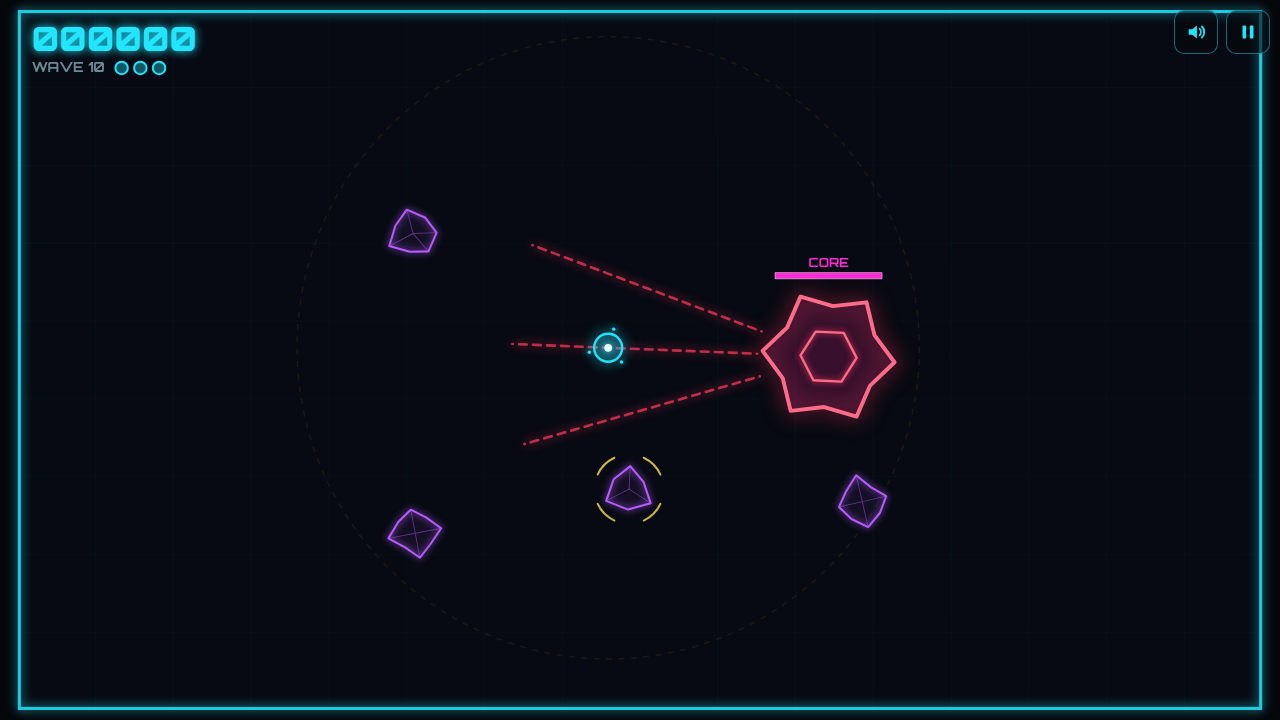
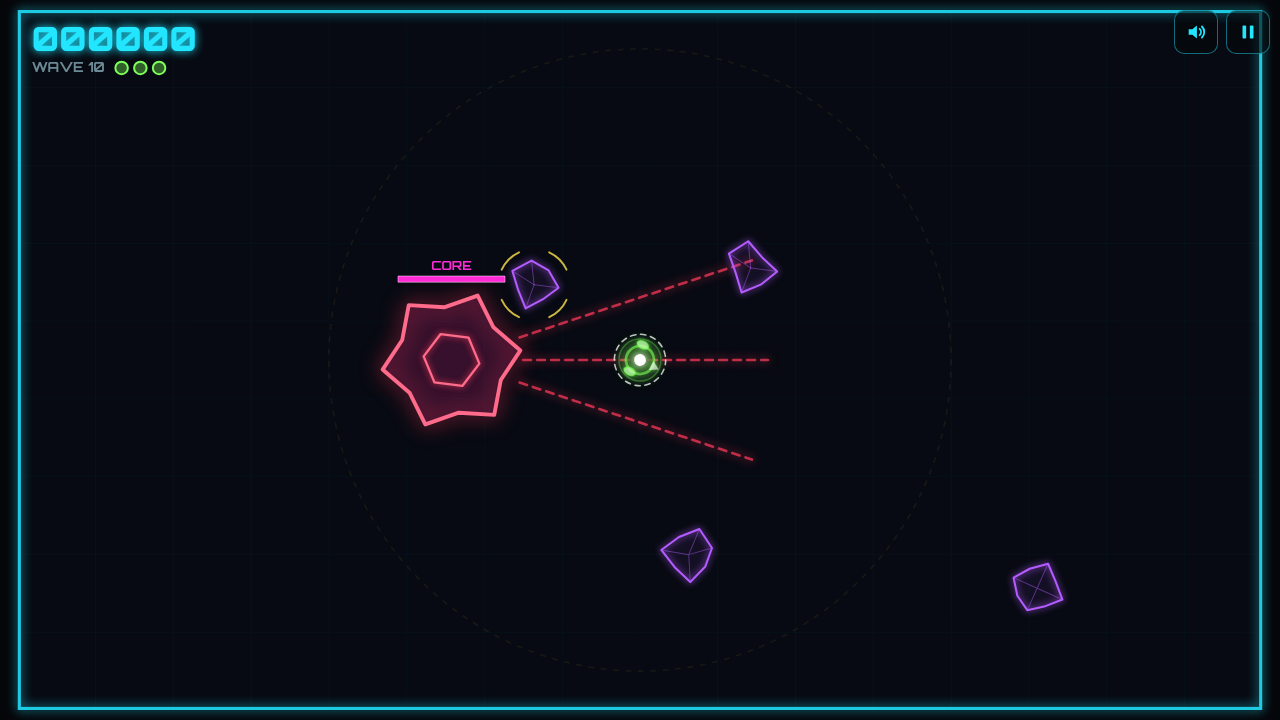
Make the player drone unmistakable: unique green/white look, nose + thrusters, glow ring, motion trail, YOU spotlight at wave start/respawn

diff --git a/src/render/renderer.ts b/src/render/renderer.ts
@@ -4,7 +4,7 @@ import { PERK_INFO } from '../perkInfo';
 import { PERK_IDS } from '../sim/types';
 import type { Enemy, GameState, Shard } from '../sim/types';
 import type { TutMark } from '../tutorial';
-import { Effects, TIER_COLORS } from './fx';
+import { DRONE_COLOR, DRONE_RGB, Effects, SPOTLIGHT_TIME, TIER_COLORS } from './fx';
 
 const lerp = (a: number, b: number, t: number) => a + (b - a) * t;
 
@@ -20,6 +20,9 @@ export class Renderer {
   view: View = { scale: 1, offX: 0, offY: 0, dpr: 1 };
   private cssW = 0;
   private cssH = 0;
+  /** smoothed facing of the drone (render only, follows its velocity) */
+  private droneAng = -Math.PI / 2;
+  private lastTime = 0;
 
   constructor(private canvas: HTMLCanvasElement) {
     const ctx = canvas.getContext('2d', { alpha: false });
@@ -216,35 +219,9 @@ export class Renderer {
       }
     }
 
-    // drone
-    const blink = d.invuln > 0 && s.mode === 'play' && Math.floor(time * 12) % 2 === 0;
-    if (s.phase === 'playing' || s.mode === 'attract') {
-      ctx.save();
-      ctx.globalAlpha = blink ? 0.35 : 1;
-      ctx.shadowColor = '#22e5ff';
-      ctx.shadowBlur = glow(16);
-      ctx.strokeStyle = '#22e5ff';
-      ctx.lineWidth = 3;
-      ctx.beginPath();
-      ctx.arc(dx, dy, d.r, 0, Math.PI * 2);
-      ctx.stroke();
-      ctx.fillStyle = 'rgba(34,229,255,0.15)';
-      ctx.fill();
-      ctx.shadowBlur = glow(8);
-      ctx.fillStyle = '#e8fdff';
-      ctx.beginPath();
-      ctx.arc(dx, dy, 5, 0, Math.PI * 2);
-      ctx.fill();
-      // orbiting markers
-      for (let i = 0; i < 3; i++) {
-        const a = time * 3 + (i * Math.PI * 2) / 3;
-        ctx.fillStyle = '#22e5ff';
-        ctx.beginPath();
-        ctx.arc(dx + Math.cos(a) * (d.r + 7), dy + Math.sin(a) * (d.r + 7), 2.2, 0, Math.PI * 2);
-        ctx.fill();
-      }
-      ctx.restore();
-    }
+    // drone (drawn above crystals and enemies so it is never hidden)
+    if (s.phase === 'playing' || s.mode === 'attract') this.drawDrone(s, fx, dx, dy, time, glow);
+    else fx.droneTrail = [];
 
     if (marks) this.drawMarks(s, alpha, marks, time, dx, dy);
 
@@ -297,6 +274,171 @@ export class Renderer {
     // ---------- HUD in screen space (minimum font sizes for small iframes/phones)
     ctx.setTransform(dpr, 0, 0, dpr, 0, 0);
     if (showHud && !marks) this.drawHud(s, fx);
+  }
+
+  /**
+   * The player's drone: green/white (a color nothing else uses), round body with a nose and two thrusters,
+   * a pulsing glow ring and a short motion trail, plus a "YOU" spotlight at wave start / after a hit.
+   */
+  private drawDrone(s: GameState, fx: Effects, dx: number, dy: number, time: number, glow: (px: number) => number): void {
+    const { ctx } = this;
+    const d = s.drone;
+    const r = d.r;
+    const rdt = Math.min(0.1, Math.max(0, time - this.lastTime));
+    this.lastTime = time;
+
+    // facing follows the velocity (smoothed); kept while standing still
+    const sp = Math.hypot(d.vx, d.vy);
+    if (sp > 40) {
+      const target = Math.atan2(d.vy, d.vx);
+      const diff = Math.atan2(Math.sin(target - this.droneAng), Math.cos(target - this.droneAng));
+      this.droneAng += diff * Math.min(1, rdt * 14);
+    }
+    const ang = this.droneAng;
+
+    // motion trail (render positions of the last ~0.2 s)
+    const tr = fx.droneTrail;
+    const last = tr[tr.length - 1];
+    if (last && Math.hypot(last.x - dx, last.y - dy) > 140) tr.length = 0; // teleport (new wave / restart)
+    if (!last || last.x !== dx || last.y !== dy) tr.push({ x: dx, y: dy, t: time });
+    while (tr.length > 0 && (time - tr[0].t > 0.22 || tr.length > 28)) tr.shift();
+    if (tr.length > 1) {
+      ctx.save();
+      ctx.lineCap = 'round';
+      for (let i = 1; i < tr.length; i++) {
+        const k = i / tr.length;
+        ctx.strokeStyle = `rgba(${DRONE_RGB},${k * 0.45})`;
+        ctx.lineWidth = r * 1.1 * k;
+        ctx.beginPath();
+        ctx.moveTo(tr[i - 1].x, tr[i - 1].y);
+        ctx.lineTo(tr[i].x, tr[i].y);
+        ctx.stroke();
+      }
+      ctx.restore();
+    }
+
+    const invuln = d.invuln > 0 && s.mode === 'play';
+    const blink = invuln && Math.floor(time * 12) % 2 === 0;
+    const pulse = 0.5 + 0.5 * Math.sin(time * 5);
+    ctx.save();
+    ctx.translate(dx, dy);
+
+    // soft pulsing glow ring
+    ctx.strokeStyle = `rgba(${DRONE_RGB},${0.22 + pulse * 0.28})`;
+    ctx.lineWidth = 2;
+    ctx.shadowColor = DRONE_COLOR;
+    ctx.shadowBlur = glow(12);
+    ctx.beginPath();
+    ctx.arc(0, 0, r + 8 + pulse * 3, 0, Math.PI * 2);
+    ctx.stroke();
+
+    // shield while invulnerable: a rotating dashed ring that never blinks
+    if (invuln) {
+      ctx.shadowBlur = 0;
+      ctx.strokeStyle = 'rgba(255,255,255,0.75)';
+      ctx.lineWidth = 2;
+      ctx.setLineDash([7, 6]);
+      ctx.lineDashOffset = -time * 40;
+      ctx.beginPath();
+      ctx.arc(0, 0, r + 15, 0, Math.PI * 2);
+      ctx.stroke();
+      ctx.setLineDash([]);
+    }
+
+    ctx.rotate(ang);
+    // thruster flames from the two side pods (longer when moving)
+    const thrust = Math.min(1, sp / 400);
+    const flick = 0.75 + Math.random() * 0.25;
+    const podX = -r * 0.3;
+    const podY = r + 1;
+    for (const side of [-1, 1]) {
+      const fl = (5 + thrust * 16) * flick;
+      ctx.fillStyle = `rgba(${DRONE_RGB},${0.35 + thrust * 0.5})`;
+      ctx.beginPath();
+      ctx.moveTo(podX - 5, side * podY - 3.5);
+      ctx.lineTo(podX - 5 - fl, side * podY);
+      ctx.lineTo(podX - 5, side * podY + 3.5);
+      ctx.closePath();
+      ctx.fill();
+    }
+
+    // body: dark green disc, thick green rim (blinks softly while invulnerable, never fades out)
+    ctx.globalAlpha = blink ? 0.6 : 1;
+    ctx.shadowColor = DRONE_COLOR;
+    ctx.shadowBlur = glow(16);
+    ctx.fillStyle = 'rgba(30,70,22,0.92)';
+    ctx.strokeStyle = DRONE_COLOR;
+    ctx.lineWidth = 3.5;
+    ctx.beginPath();
+    ctx.arc(0, 0, r, 0, Math.PI * 2);
+    ctx.fill();
+    ctx.stroke();
+    // thruster pods sticking out on both sides (a silhouette no crystal has)
+    ctx.shadowBlur = glow(6);
+    ctx.fillStyle = '#e9ffe0';
+    ctx.lineWidth = 2;
+    for (const side of [-1, 1]) {
+      ctx.beginPath();
+      ctx.ellipse(podX, side * podY, 7.5, 4.5, 0, 0, Math.PI * 2);
+      ctx.fill();
+      ctx.stroke();
+    }
+    // nose: direction indicator
+    ctx.fillStyle = '#ffffff';
+    ctx.beginPath();
+    ctx.moveTo(r + 9, 0);
+    ctx.lineTo(r - 2, -6.5);
+    ctx.lineTo(r - 2, 6.5);
+    ctx.closePath();
+    ctx.fill();
+    // bright white core
+    ctx.globalAlpha = 1;
+    ctx.shadowColor = '#ffffff';
+    ctx.shadowBlur = glow(10);
+    ctx.fillStyle = '#ffffff';
+    ctx.beginPath();
+    ctx.arc(0, 0, r * 0.42, 0, Math.PI * 2);
+    ctx.fill();
+    ctx.restore();
+
+    // "YOU" spotlight: expanding rings + label (wave start, after losing a life)
+    if (fx.spotlight > 0 && s.mode === 'play') {
+      const k = fx.spotlight / SPOTLIGHT_TIME; // 1 -> 0
+      const fade = Math.min(1, fx.spotlight * 3);
+      ctx.save();
+      ctx.strokeStyle = DRONE_COLOR;
+      ctx.shadowColor = DRONE_COLOR;
+      ctx.shadowBlur = glow(12);
+      for (let i = 0; i < 2; i++) {
+        const g = ((1 - k) * 2.2 + i * 0.5) % 1;
+        ctx.globalAlpha = (1 - g) * 0.8 * fade;
+        ctx.lineWidth = 3;
+        ctx.beginPath();
+        ctx.arc(dx, dy, r + 10 + g * 70, 0, Math.PI * 2);
+        ctx.stroke();
+      }
+      // fixed bracket ring, then the label
+      ctx.globalAlpha = fade;
+      ctx.lineWidth = 3;
+      for (let i = 0; i < 4; i++) {
+        const a = (i * Math.PI) / 2 + time * 1.5;
+        ctx.beginPath();
+        ctx.arc(dx, dy, r + 20, a - 0.4, a + 0.4);
+        ctx.stroke();
+      }
+      const textPx = Math.max(16 / this.view.scale, 28);
+      ctx.font = `900 ${textPx}px Orbitron, system-ui, sans-serif`;
+      ctx.textAlign = 'center';
+      ctx.textBaseline = 'middle';
+      ctx.fillStyle = DRONE_COLOR;
+      const off = r + 26 + textPx * 0.6;
+      // below the drone (the wave banner sits above the arena centre), above only near the bottom wall
+      const above = dy + off + textPx > ARENA_H;
+      const tw = ctx.measureText('YOU').width / 2;
+      const lx = Math.min(ARENA_W - tw - 8, Math.max(tw + 8, dx));
+      ctx.fillText('YOU', lx, above ? dy - off : dy + off);
+      ctx.restore();
+    }
   }
 
   /** Tutorial highlights: pulsing ring + label around a shard, the drone or a fixed spot. */
@@ -610,11 +752,11 @@ export class Renderer {
     for (let i = 0; i < slots; i++) {
       ctx.beginPath();
       ctx.arc(lx + i * lr * 3, top + big * 1.12 + small * 0.5, lr, 0, Math.PI * 2);
-      ctx.strokeStyle = i < s.lives ? '#22e5ff' : 'rgba(108,138,150,0.4)';
+      ctx.strokeStyle = i < s.lives ? DRONE_COLOR : 'rgba(108,138,150,0.4)';
       ctx.lineWidth = 2;
       ctx.stroke();
       if (i < s.lives) {
-        ctx.fillStyle = 'rgba(34,229,255,0.35)';
+        ctx.fillStyle = `rgba(${DRONE_RGB},0.35)`;
         ctx.fill();
       }
     }

diff --git a/src/render/fx.ts b/src/render/fx.ts
@@ -30,6 +30,12 @@ interface FloatText {
 
 export const TIER_COLORS = ['#22e5ff', '#4da3ff', '#b45cff', '#ff2bd6'];
 
+/** The player's own color: no crystal, enemy, rope or UI element uses this green. */
+export const DRONE_COLOR = '#7dff5a';
+export const DRONE_RGB = '125,255,90';
+/** How long the "YOU" spotlight shows at wave start and after losing a life (seconds). */
+export const SPOTLIGHT_TIME = 1.5;
+
 export class Effects {
   particles: Particle[] = [];
   rings: Ring[] = [];
@@ -38,12 +44,18 @@ export class Effects {
   banner: { text: string; sub: string; life: number; color?: string } | null = null;
   hurtFlash = 0;
   trails = new Map<number, { x: number; y: number }[]>();
+  /** recent drone positions (render time), for the short motion trail */
+  droneTrail: { x: number; y: number; t: number }[] = [];
+  /** >0: "YOU" spotlight around the drone (wave start / respawn) */
+  spotlight = 0;
 
   clear(): void {
     this.particles = [];
     this.rings = [];
     this.texts = [];
     this.trails.clear();
+    this.droneTrail = [];
+    this.spotlight = 0;
     this.shake = 0;
     this.banner = null;
     this.hurtFlash = 0;
@@ -94,11 +106,13 @@ export class Effects {
         this.rings.push({ x: e.x, y: e.y, r: 20, grow: 420, life: 0.45, max: 0.45, color: '#ff3b5c' });
         this.shake = 18;
         this.hurtFlash = 0.35;
+        if (e.lives > 0) this.spotlight = SPOTLIGHT_TIME;
         break;
       case 'wave':
         this.banner = e.boss
           ? { text: 'BOSS', sub: `WAVE ${e.wave}: smash the core`, life: 2.4, color: '#ff3b5c' }
           : { text: `WAVE ${e.wave}`, sub: '', life: 1.6 };
+        this.spotlight = SPOTLIGHT_TIME;
         break;
       case 'clear':
         this.banner = { text: `WAVE ${e.wave} CLEAR`, sub: e.bonus > 0 ? `+${e.bonus} clear bonus` : '', life: 1.4 };
@@ -164,6 +178,7 @@ export class Effects {
     this.texts = this.texts.filter((t) => t.life > 0);
     this.shake = Math.max(0, this.shake - 40 * dt);
     this.hurtFlash = Math.max(0, this.hurtFlash - dt);
+    this.spotlight = Math.max(0, this.spotlight - dt);
     if (this.banner) {
       this.banner.life -= dt;
       if (this.banner.life <= 0) this.banner = null;

diff --git a/test/palette.test.ts b/test/palette.test.ts
@@ -1,0 +1,28 @@
+import { describe, expect, it } from 'vitest';
+import { DRONE_COLOR, DRONE_RGB, TIER_COLORS } from '../src/render/fx';
+
+// crystals, enemies, rope/hook and UI colors used by the renderer
+const OTHERS = [...TIER_COLORS, '#ffe14d', '#fff6c2', '#ff3b5c', '#ff9a3b', '#ff6b8a', '#ffb199', '#ff9ce9'];
+
+function hue(hex: string): number {
+  const [r, g, b] = [1, 3, 5].map((i) => parseInt(hex.slice(i, i + 2), 16) / 255);
+  const max = Math.max(r, g, b);
+  const d = max - Math.min(r, g, b);
+  if (d === 0) return 0;
+  const h = max === r ? ((g - b) / d) % 6 : max === g ? (b - r) / d + 2 : (r - g) / d + 4;
+  return (h * 60 + 360) % 360;
+}
+
+describe('drone palette', () => {
+  it('no crystal, enemy or rope color is close to the drone color', () => {
+    const h = hue(DRONE_COLOR);
+    for (const c of OTHERS) {
+      const dh = Math.min(Math.abs(hue(c) - h), 360 - Math.abs(hue(c) - h));
+      expect(dh, c).toBeGreaterThan(45);
+    }
+  });
+  it('RGB triple matches the hex color', () => {
+    const rgb = [1, 3, 5].map((i) => parseInt(DRONE_COLOR.slice(i, i + 2), 16)).join(',');
+    expect(rgb).toBe(DRONE_RGB);
+  });
+});

diff --git a/src/tutorial.ts b/src/tutorial.ts
@@ -2,6 +2,7 @@ import type { Device } from './input/input';
 import { SIM_DT, TETHER } from './sim/constants';
 import { makeShard, TUTORIAL_LAYOUT } from './sim/sim';
 import type { GameState } from './sim/types';
+import { DRONE_COLOR } from './render/fx';
 import { ARENA_H, ARENA_W } from './sim/constants';
 
 export type TutStep = 'goal' | 'move' | 'hook' | 'fling' | 'done';
@@ -187,7 +188,7 @@ export class Tutorial {
     const target = s.shards.find((x) => x.id === this.targetId);
     const out: TutMark[] = [];
     if (this.step === 'goal') {
-      out.push({ id: -1, label: 'YOU', color: '#22e5ff' });
+      out.push({ id: -1, label: 'YOU', color: DRONE_COLOR });
       if (target) out.push({ id: target.id, label: 'SMASH', color: '#ff2bd6' });
     } else if (this.step === 'move') {
       out.push({ x: L.moveTarget.x, y: L.moveTarget.y, r: L.moveRadius, label: 'FLY HERE', color: '#ffe14d', dashed: true });

diff --git a/src/main.ts b/src/main.ts
@@ -3,7 +3,7 @@ import './style.css';
 import { GameAudio } from './audio/audio';
 import { FixedStepper } from './engine/fixedStep';
 import { InputManager, type Device } from './input/input';
-import { Effects } from './render/fx';
+import { Effects, SPOTLIGHT_TIME } from './render/fx';
 import { Renderer } from './render/renderer';
 import { heuristicInput } from './sim/bot';
 import { SIM_DT } from './sim/constants';
@@ -115,6 +115,7 @@ function startGame(): void {
   state = createGame(newSeed(), 'play');
   fx.clear();
   fx.banner = { text: 'WAVE 1', sub: '', life: 1.4 };
+  fx.spotlight = SPOTLIGHT_TIME;
   stepper.reset();
   pauseReason = null;
   hitstop = 0;

diff --git a/README.md b/README.md
@@ -48,6 +48,16 @@ Gespeichert wird `shardsling.tutorialDone` in localStorage (auch beim Übersprin
 Die Touch-Steuerung erscheint nach **Eingabegerät** (`pointer: coarse` bzw. erste echte Touch-Berührung), nicht nach Bildschirmbreite.
 Das Menü zeigt je nach Gerät die passenden Hinweise. Start mit genau einem Klick/Tap (oder Enter/Leertaste).
 
+## Drohne (Spielerfarbe)
+
+Die eigene Drohne hat eine Farbe, die sonst nichts im Spiel nutzt: **Grün `#7dff5a`** (`DRONE_COLOR` in `src/render/fx.ts`)
+mit weißem Kern. Form: runder Körper mit weißer Nase (zeigt in Flugrichtung) und zwei seitlichen Triebwerken mit Flamme,
+dazu ein pulsierender Leuchtring und eine kurze grüne Bewegungsspur. Bei Wellenstart und nach einem verlorenen Leben
+erscheint 1,5 s ein „YOU“-Spotlight (wachsende Ringe + Schrift unter der Drohne). Während der Unverwundbarkeit
+blinkt nur der Körper leicht, Kern, Nase und ein gestrichelter Schildring bleiben voll sichtbar. Auch die Leben-Anzeige
+im HUD ist grün. Nur Rendering, die Simulation ist unverändert. `test/palette.test.ts` prüft, dass keine Kristall-,
+Gegner- oder Seilfarbe im Farbton nah an der Drohne liegt. Vorher/Nachher-Screenshots: `node scripts/drone-shots.mjs <tag> [--spawn]`.
+
 ## Sound (M6)
 
 - Effekte mit **ZzFX** (Frank Force, MIT): Haken, Treffer am Kristall, Schleudern, Zerschlagen (Tonhöhe nach Größe und Kombo),
